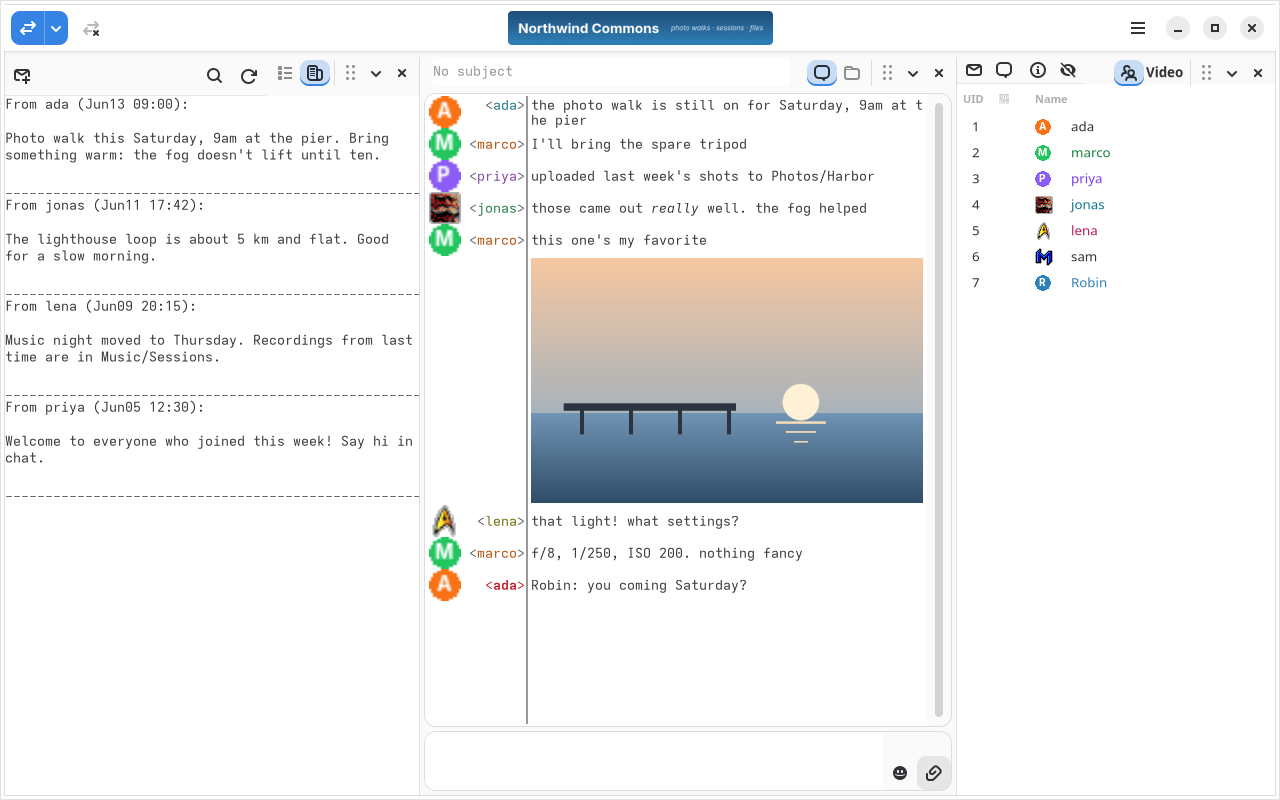
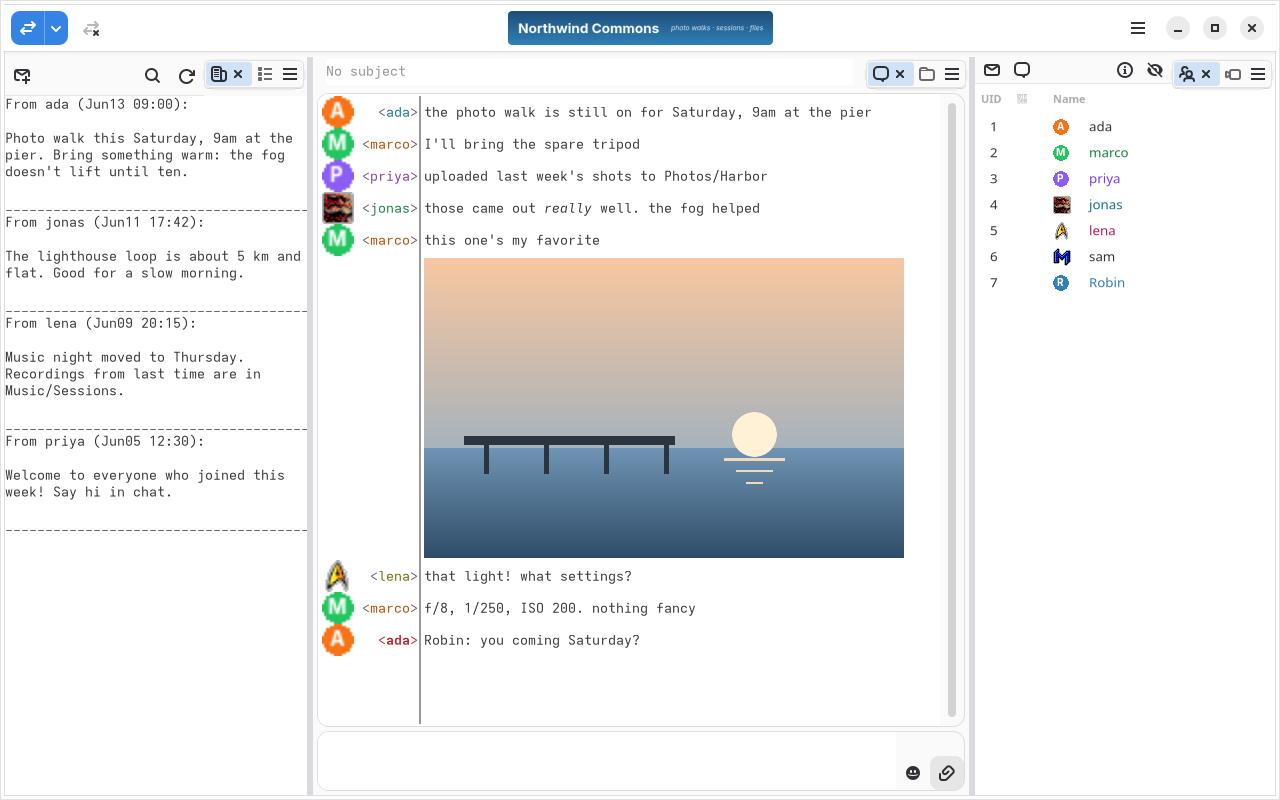
Refresh the site for 1.5.0
The current version is 1.5.0. Linux users are pointed at the Flatpak
repository on dl.gtkhx.org, which keeps GtkHx up to date, rather than the
release bundle, which never updates; the beta channel is named too.
macOS and Windows still download from the latest release.

The feature list mentions dragging tabs between panes and the Flatpak's
update notices, hlservd joins the tested servers, and the screenshots
are retaken with the 1.5.0 icons.

Changed region(s): [[0.0, 0.0625, 0.875, 1.0], [0.875, 0.0625, 0.9688, 0.125], [0.3438, 0.0625, 0.375, 0.0938]]

diff --git a/README.md b/README.md
@@ -13,13 +13,16 @@ today.
 
 ## Get GtkHx
 
-The current version is **1.4.0**. Download it for your platform from the
-[latest release](https://github.com/mishan/gtkhx/releases/latest):
+The current version is **1.5.0**.
 
-- **Linux:** the `.flatpak` bundle. Install it with
-  `flatpak install --user GtkHx-*.flatpak`.
-- **macOS:** the `.zip` for Apple silicon (`arm64`) or Intel (`x86_64`).
-- **Windows:** the `win64` `.zip`.
+- **Linux:** the Flatpak, from GtkHx's own repository. Install it with
+  `flatpak install --user https://dl.gtkhx.org/gtkhx.flatpakref`, and it
+  updates like any other Flatpak app. `gtkhx-beta.flatpakref` follows the
+  betas instead.
+- **macOS:** the `.zip` for Apple silicon (`arm64`) or Intel (`x86_64`),
+  from the [latest release](https://github.com/mishan/gtkhx/releases/latest).
+- **Windows:** the `win64` `.zip`, from the
+  [latest release](https://github.com/mishan/gtkhx/releases/latest).
 
 Or [build it yourself](https://github.com/mishan/gtkhx#building). What's
 new in each version is in the
@@ -62,11 +65,13 @@ are online now, and you can search them by name.
 - **Several servers at once**, each in its own tab
 - **Secure connections** over TLS, with fingerprint pinning, and
   encrypted logins with Blowfish or ChaCha20-Poly1305
-- **Your layout:** dock panels side by side or pull them out into
-  windows of their own, the way the original Hotline client worked
+- **Your layout:** dock panels side by side, drag their tabs between
+  panes, or pull them out into windows of their own, the way the original
+  Hotline client worked
 - **Themes**, light and dark, including a Classic theme with the
   original pixel-art icons
 - **Notifications** and a tray icon
+- **Update notices** in the Flatpak, which can update and restart itself
 - Runs on **Linux, macOS and Windows**
 
 GtkHx also speaks the
@@ -76,7 +81,8 @@ icons, and tracker v3 with search.
 
 GtkHx works with any Hotline 1.2, 1.5 or 1.9 server. It is tested against
 [mhxd](https://github.com/kangsterizer/mhxd), Janus,
-[hxd-ng](https://github.com/mishan/hxd-ng) and the Argus tracker.
+[hxd-ng](https://github.com/mishan/hxd-ng), hlservd (the Hotline 1.9
+server) and the Argus tracker.
 
 ## History
 
